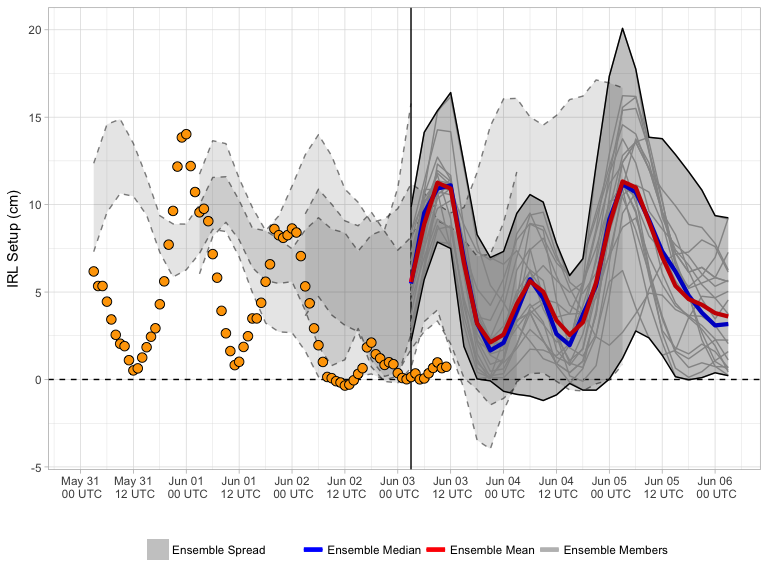
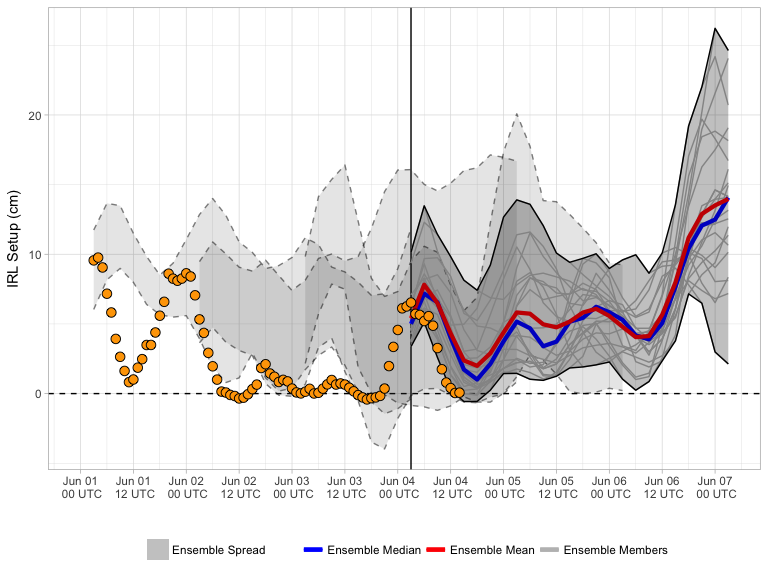
20170604 forecast update

diff --git a/docs/index.md b/docs/index.md
@@ -3,7 +3,7 @@ Current Forecast
 
 [![](img/raw_setup.png)](https://bhlmn.github.io/IRLSetup/img/raw_setup.png)
 
-> Forecast valid 2017-06-03 08:19:58.
+> Forecast valid 2017-06-04 10:52:49.
 
 Explanation
 -----------
@@ -15,7 +15,7 @@ water elevation in the northern IRL (near Titusville), and negative
 setup indicates the increase elevation in the southern IRL (near
 Sebastian). The x-axis displays the date and time in UTC. The solid
 vertical line represents the beginning of the most recent ensemble
-forecast (currently 2017-06-02 18:00:00). For this most recent forecast,
+forecast (currently 2017-06-03 18:00:00). For this most recent forecast,
 the ensemble spread (grey shading) is bound by solid black lines, with
 individual members represented by faint grey lines. The ensemble mean
 and median for this are represented by the red and blue curves,
